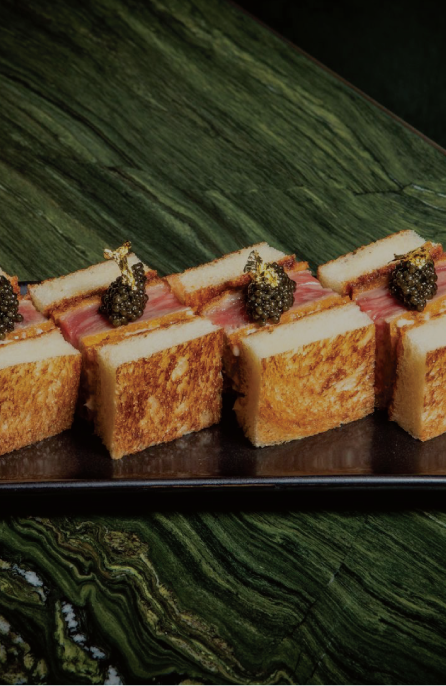
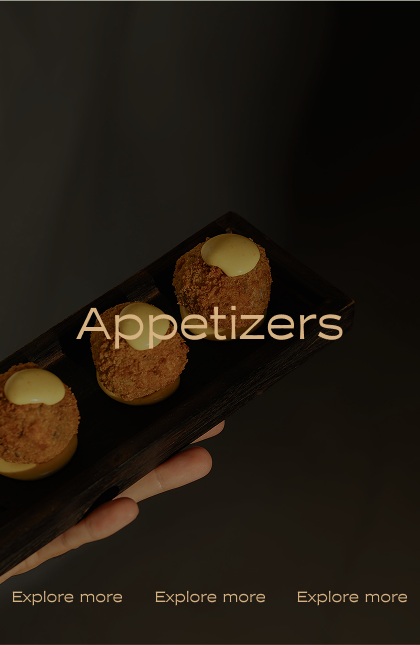
home about and stories content updated

diff --git a/src/pages/menu/MenuDetails.tsx b/src/pages/menu/MenuDetails.tsx
@@ -1,30 +1,120 @@
-import IntroSection from "../home/IntroSection";
+import { useParams } from "react-router-dom";
+import IntroSection from "../home/IntroSection"
 import { LetterByLetter } from "../../components/LetterByLetter";
 
+type MenuItem = { name: string; price: string };
+type CategoryData = {
+  title: string;
+  subtitle: string;
+  image: string;
+  sectionTitle: string;
+  items: MenuItem[];
+};
+
+const MENU_DATA: Record<string, CategoryData> = {
+
+  appetizers: {
+    title: "Appetizers Menu",
+    subtitle: "Start with the finest",
+    image: "/png/appetizers-menu.png",
+    sectionTitle: "Designed to Awaken the Palate",
+    items: [
+      { name: "Burrata & Tomato", price: "$ 18.00" },
+      { name: "Tuna Tartare", price: "$ 22.00" },
+      { name: "Truffle Crostini", price: "$ 16.00" },
+      { name: "Prawn Cocktail", price: "$ 20.00" },
+    ],
+  },
+  mains: {
+    title: "Mains Menu",
+    subtitle: "The heart of the meal",
+    image: "/png/mains-menu.png",
+    sectionTitle: "The Heart of the Experience",
+    items: [
+      { name: "Grilled Sea Bass", price: "$ 48.00" },
+      { name: "Lamb Rack", price: "$ 52.00" },
+      { name: "Duck Confit", price: "$ 44.00" },
+      { name: "Vegetable Risotto", price: "$ 30.00" },
+    ],
+  },
+  pizzas: {
+    title: "Pizzas Menu",
+    subtitle: "Wood-fired perfection",
+    image: "/png/pizza-menu.png",
+    sectionTitle: "Tradition Meets Creativity",
+    items: [
+      { name: "Margherita", price: "$ 22.00" },
+      { name: "Truffle & Mushroom", price: "$ 28.00" },
+      { name: "Prosciutto", price: "$ 26.00" },
+      { name: "Burrata & Basil", price: "$ 25.00" },
+    ],
+  },
+  desserts: {
+    title: "Desserts Menu",
+    subtitle: "Sweet finales",
+    image: "/png/dessert-menu.png",
+    sectionTitle: "A Sweet Ending to the Journey",
+    items: [
+      { name: "Tiramisu", price: "$ 14.00" },
+      { name: "Panna Cotta", price: "$ 12.00" },
+      { name: "Chocolate Fondant", price: "$ 16.00" },
+      { name: "Gelato Selection", price: "$ 10.00" },
+    ],
+  },
+  cocktails: {
+    title: "Cocktails Menu",
+    subtitle: "Crafted to sip",
+    image: "/png/cocktail-menu.png",
+    sectionTitle: "Mixed with Creativity and Intention",
+    items: [
+      { name: "KAJA Spritz", price: "$ 16.00" },
+      { name: "Bali Sunset", price: "$ 18.00" },
+      { name: "Lemongrass Gin", price: "$ 17.00" },
+      { name: "Coconut Negroni", price: "$ 19.00" },
+    ],
+  },
+  "shot-pods": {
+    title: "Specials Menu",
+    subtitle: "Chef's specials",
+    image: "/png/shotpods-menu.png",
+    sectionTitle: "A Ritual Worth Sharing",
+    items: [
+      { name: "Chef's Tasting Duo", price: "$ 35.00" },
+      { name: "Seasonal Platter", price: "$ 30.00" },
+      { name: "Sharing Board", price: "$ 28.00" },
+      { name: "Daily Catch", price: "$ 40.00" },
+    ],
+  },
+};
+
 const MenuDetailPage = () => {
-  const items = [
-    { name: "Smoked Beef Steak", price: "$ 60.00" },
-    { name: "Grilled Ribeye", price: "$ 55.00" },
-    { name: "Classic Sirloin", price: "$ 50.00" },
-    { name: "Tenderloin Steak", price: "$ 65.00" },
-  ];
+  const { category } = useParams<{ category: string }>();
+  const data = MENU_DATA[category ?? "steaks"] ?? MENU_DATA["steaks"];
 
   return (
     <div className="min-h-screen">
       <div className="mx-auto max-w-6xl px-4 pb-0 pt-14 md:py-20">
         <h1 className="heading mx-auto mb-4 max-w-[378px] text-center">
-          <LetterByLetter lines={["Steaks Menu"]} align="center" />
+          <LetterByLetter lines={[data.title]} align="center" />
         </h1>
 
         <div className="mx-auto mb-0 grid w-full grid-cols-1 items-start md:grid-cols-[1fr_auto_1fr] md:gap-4 md:pb-0">
           <p className="hidden md:block base-text mx-auto max-w-[230px] text-center md:mt-[35%] md:px-2">
-            <LetterByLetter lines={["KAJA was created with a", "clear intention: to surprise,", "engage, and leave a", "lasting impression."]} align="center" />
+            <LetterByLetter
+              lines={[
+                "KAJA was created with a",
+                "clear intention: to surprise,",
+                "engage, and leave a",
+                "lasting impression.",
+              ]}
+              align="center"
+            />
           </p>
 
           <div className="flex justify-center leading-none md:justify-self-center">
             <img
-              src="/png/steaks.png"
-              alt="Steaks"
+              src={data.image}
+              alt={data.title}
               width={504}
               height={492}
               className="h-[492px] max-w-[504px] max-w-full object-cover object-[center_20]"
@@ -32,18 +122,29 @@ const MenuDetailPage = () => {
           </div>
 
           <p className="md:block hidden base-text mx-auto max-w-[303px] text-center md:mt-[35%]">
-            <LetterByLetter lines={["It is not simply a restaurant,", "but a complete evening experience", "where iconic architecture,", "contemporary cuisine, and", "entertainment come together as one."]} align="center" />
+            <LetterByLetter
+              lines={[
+                "It is not simply a restaurant,",
+                "but a complete evening experience",
+                "where iconic architecture,",
+                "contemporary cuisine, and",
+                "entertainment come together as one.",
+              ]}
+              align="center"
+            />
           </p>
         </div>
       </div>
 
       <div className="w-full flex flex-col items-center py-10">
-        <h2 className="heading mb-6"><LetterByLetter lines={["For meat lovers"]} align="center" /></h2>
+        <h2 className="heading mb-6">
+          <LetterByLetter lines={[data.sectionTitle]} align="center" />
+        </h2>
 
         <div className="w-[60%] border-t border-[#e6d3a3]/30 mb-6"></div>
 
         <ul className="flex flex-col gap-0 w-full max-w-[600px] px-10">
-          {items.map((item) => (
+          {data.items.map((item) => (
             <li key={item.name} className="flex justify-between py-4 md:py-5">
               <span className="base-text">{item.name}</span>
               <span className="base-text">{item.price}</span>
@@ -51,7 +152,6 @@ const MenuDetailPage = () => {
           ))}
         </ul>
       </div>
-      <IntroSection />
     </div>
   );
 };

diff --git a/src/pages/home/IntroSection.tsx b/src/pages/home/IntroSection.tsx
@@ -1,13 +1,9 @@
 import { motion, useScroll, useTransform } from "framer-motion";
-import { useRef, useState } from "react";
-import { useNavigate } from "react-router-dom";
+import { useRef } from "react";
 import { LetterByLetter } from "../../components/LetterByLetter";
 
 const IntroSection = () => {
   const ref = useRef(null);
-  const navigate = useNavigate();
-  const [isExpanding, setIsExpanding] = useState(false);
-
   const { scrollYProgress } = useScroll({
     target: ref,
     offset: ["start 80%", "end 20%"],
@@ -26,14 +22,6 @@ const IntroSection = () => {
   const rightX = useTransform(scrollYProgress, [0, 0.4], [100, 0]);
   const rightOpacity = useTransform(scrollYProgress, [0, 0.3], [0, 1]);
   const rightExitY = useTransform(scrollYProgress, [0.7, 1], [0, -80]);
-
-  const handleReservation = () => {
-    setIsExpanding(true);
-
-    setTimeout(() => {
-      navigate("/reservation");
-    }, 600);
-  };
 
   return (
     <motion.section
@@ -69,45 +57,14 @@ const IntroSection = () => {
           }}
           className="flex flex-col items-center gap-4 max-w-[277px]"
         >
-          <motion.button
-            onClick={handleReservation}
-            initial={false}
-            animate={
-              isExpanding
-                ? {
-                    position: "fixed",
-                    top: ["50%", "0%"],
-                    left: ["50%", "0%"],
-                    x: ["-50%", "0%"],
-                    y: ["-50%", "0%"],
-                    width: ["100%", "100dvw"],
-                    maxWidth: ["277px", "100dvw"],
-                    height: ["44px", "100dvh"],
-                    borderRadius: 0,
-                    zIndex: 50,
-                  }
-                : {
-                    y: [0, -6, 0],
-                  }
-            }
-            transition={
-              isExpanding
-                ? { duration: 0.7, ease: "easeInOut" }
-                : {
-                    duration: 2,
-                    repeat: Infinity,
-                    ease: "easeInOut",
-                  }
-            }
-            whileHover={{
-              y: -2,
-              boxShadow: "0px 10px 20px rgba(0,0,0,0.25)",
-            }}
-            whileTap={{ scale: 0.96 }}
-            className="w-full h-[44px] bg-[#32341D] text-[#D6B283] base-text px-[3vw] border border-[#32341D] cursor-pointer shadow-md"
+          <a
+            href="https://www.sevenrooms.com/explore/kajabynuma/reservations/create/search/"
+            target="_blank"
+            rel="noopener noreferrer"
+            className="w-full h-[44px] bg-[#32341D] text-[#D6B283] base-text px-[3vw] border border-[#32341D] shadow-md flex items-center justify-center hover:opacity-80 transition-opacity"
           >
-            {isExpanding ? "RESERVATION" : "MAKE RESERVATION"}
-          </motion.button>
+            MAKE RESERVATION
+          </a>
 
           <img
             src="/png/stone.png"

diff --git a/src/pages/menu/MenuPage.tsx b/src/pages/menu/MenuPage.tsx
@@ -1,23 +1,40 @@
 import React from "react";
-
 import { Link } from "react-router-dom";
-import MenuCard from "../../components/MenuCard";
 import { LetterByLetter } from "../../components/LetterByLetter";
+
+const IMAGES = [
+  { src: "/png/appetizers.png", slug: "appetizers" },
+  { src: "/png/mains.png",      slug: "mains" },
+  { src: "/png/pizzas.png",     slug: "pizzas" },
+  { src: "/png/dessert.png",    slug: "desserts" },
+  { src: "/png/cocktails.png",  slug: "cocktails" },
+  { src: "/png/shot-pods.png",  slug: "shot-pods" },
+];
 
 const MenuPage: React.FC = () => {
   return (
     <div className="menu-page pb-10">
-      <div className="heading  py-16">
-        <h1><LetterByLetter lines={["Explore our Menu"]} align="center" /></h1>
+      <div className="heading py-16">
+        <h1 className="mb-5">
+          <LetterByLetter lines={["Crafted to Be Shared"]} align="center" />
+        </h1>
+
+        <p className="base-text max-w-[300px] mx-auto text-center">
+          A menu designed to surprise, inspire, and leave a lasting impression.
+        </p>
       </div>
 
       <div className="mx-auto w-full px-6 md:px-[3vw]">
-        <div className="grid grid-cols-1 md:grid-cols-2 lg:grid-cols-3 justify-items-center gap-12">
-          <Link to="/menu-steaks">
-            <MenuCard title="Steaks" image="/png/steaks.png" />
-          </Link>
-          <MenuCard title="Appetizers" image="/png/appetizers.png" />
-          <MenuCard title="Desserts" image="/png/desserts.png" />
+        <div className="grid grid-cols-1 sm:grid-cols-2 md:grid-cols-3 gap-6">
+          {IMAGES.map(({ src, slug }) => (
+            <Link key={slug} to={`/menu/${slug}`}>
+              <img
+                src={src}
+                alt={slug}
+                className="w-full aspect-[434/653] object-cover hover:opacity-90 transition-opacity"
+              />
+            </Link>
+          ))}
         </div>
       </div>
     </div>

diff --git a/src/components/MenuCard.tsx b/src/components/MenuCard.tsx
@@ -20,18 +20,13 @@ const MenuCard: React.FC<Props> = ({ title, image, onClick }) => {
       <img
         src={image}
         alt={title}
-        className={`w-full h-full object-cover opacity-70 transition-transform duration-400 ease-in ${
+        className={`w-full h-full object-cover transition-transform duration-400 ease-in ${
           hover ? "scale-105" : "scale-100"
         }`}
       />
 
       <div className="absolute inset-0 flex flex-col justify-center items-center bg-[linear-gradient(to_bottom,rgba(0,0,0,0.25),rgba(0,0,0,0.65))]">
-        <h2 className="!font-normal heading m-0 text-[#D6B283]">
-          <LetterByLetter lines={[title]} align="center" />
-        </h2>
-
-        <div className="absolute bottom-[70px] justify-beween items-center flex gap-[18px] base-text text-[#D6B283]">
-          {" "}
+<div className="absolute bottom-[70px] justify-between items-center flex gap-[18px] base-text text-[#D6B283]">
           <span>Explore more</span>
           <span>Explore more</span>
           <span className="lg:block hidden">Explore more</span>

diff --git a/src/pages/about/About.tsx b/src/pages/about/About.tsx
@@ -43,7 +43,7 @@ function About() {
         </h1>
 
         <div className="mx-auto grid w-full grid-cols-1 items-center md:grid-cols-[1fr_auto_1fr] md:gap-6 lg:gap-10 xl:gap-14">
-          <p className="base-text mx-auto hidden max-w-[230px] text-center leading-relaxed lg:mr-10 lg:block lg:max-w-[260px] xl:mr-12 xl:max-w-[300px] 2xl:max-w-[340px]">
+          <p className="base-text mx-auto hidden max-w-[230px] text-center lg:mr-10 lg:block lg:max-w-[260px] xl:mr-12 xl:max-w-[300px] 2xl:max-w-[340px]">
             <LetterByLetter
               lines={[
                 "A destination created to",

diff --git a/src/App.tsx b/src/App.tsx
@@ -16,6 +16,7 @@ function App() {
         <Route path="/" element={<Main />}>
           <Route index element={<Home />} />
           <Route path="/menu" element={<MenuPage />} />
+          <Route path="/menu/:category" element={<MenuDetailPage />} />
           <Route path="/menu-steaks" element={<MenuDetailPage />} />
           <Route path="/about" element={<About />} />
           <Route path="/reservation" element={<ReservationPage />} />

diff --git a/src/index.css b/src/index.css
@@ -120,7 +120,7 @@ body {
 
 .base-text {
   font-family: "Moche", sans-serif;
-  font-weight: 300;
+  font-weight: 400;
   font-style: normal;
   font-size: 16px;
   line-height: 120%;
